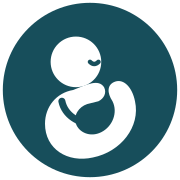
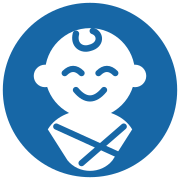
Make baby mark recognisable and restore island blue branding

diff --git a/src/styles/refinement.css b/src/styles/refinement.css
@@ -1,10 +1,10 @@
 /* Shared coastal editorial refinements; all five languages use these roles. */
 :root {
-  --cream: #fafcfb;
-  --light: #eaf2f1;
-  --ink: #123d4a;
-  --deep: #123f49;
-  --blue: #266e7c;
+  --cream: #fafcfe;
+  --light: #eaf3fb;
+  --ink: #173b60;
+  --deep: #175b91;
+  --blue: #1767a6;
   --space: clamp(52px, 6vw, 88px);
   --heading-size: clamp(28px, 3vw, 42px);
   --body-leading: 1.85;
@@ -35,7 +35,7 @@
 :root body .hero-copy { padding-left: var(--gutter); padding-right: 9%; }
 :root body .hero-title { font-size: clamp(34px,3.65vw,54px); line-height: 1.22; }
 :root body .hero-description { line-height: var(--body-leading); max-width: 28em; }
-:root body .hero-controls { padding-inline: var(--gutter); background: #dcecee; }
+:root body .hero-controls { padding-inline: var(--gutter); background: #dcecf9; }
 :root body .hero-tabs { gap: clamp(18px,2.3vw,34px); }
 :root body .hero-tab { color: var(--ink); }
 :root body .hero-playback button { background: var(--cream); transition: background-color .18s; }
@@ -59,7 +59,7 @@
 :root body .faq summary::-webkit-details-marker { display: none; }
 :root body .faq summary::after { content: '+'; font-size: 24px; line-height: 1; flex-shrink: 0; }
 :root body .faq details[open] summary::after { content: '−'; }
-:root body .faq details[open] { background: #e2eeec; }
+:root body .faq details[open] { background: #e0eefb; }
 :root body .faq :is(p,.faq-answer) { max-width: 55em; }
 :root body :is(.comparison,.responsibilities) table { font-variant-numeric: tabular-nums; }
 :root body :is(.comparison,.responsibilities) :is(th,td) { padding: 22px 20px; border-bottom-color: var(--table-rule); }
@@ -128,3 +128,12 @@ html:lang(en) body :is(.hero-title,.hero-statement) { text-wrap: balance; }
 :root body .brand-wordmark { display: block; }
 @media(max-width:1100px) { :root body .brand { gap: 9px; } :root body .brand-symbol { width: 40px; height: 40px; } }
 @media(max-width:420px) { :root body .brand { gap: 7px; } :root body .brand-symbol { width: 34px; height: 34px; } }
+
+/* Island blue: logo, navigation, actions and supporting surfaces share one palette. */
+:root body .hero-carousel { color: var(--ink); }
+:root body .slide-actions .button { background: var(--deep); color: white; }
+:root body .slide-actions .button:hover { background: var(--blue); }
+:root body .hero-tab,:root body .hero-tab.is-active,:root body .hero-playback button { color: var(--ink); }
+:root body .home-contact { background: var(--light); }
+:root body .faq details:nth-child(even),:root body :is(.comparison,.responsibilities) tbody tr:nth-child(even) td { background: #f1f6fc; }
+:root body .budget-result { background: var(--cream); }
